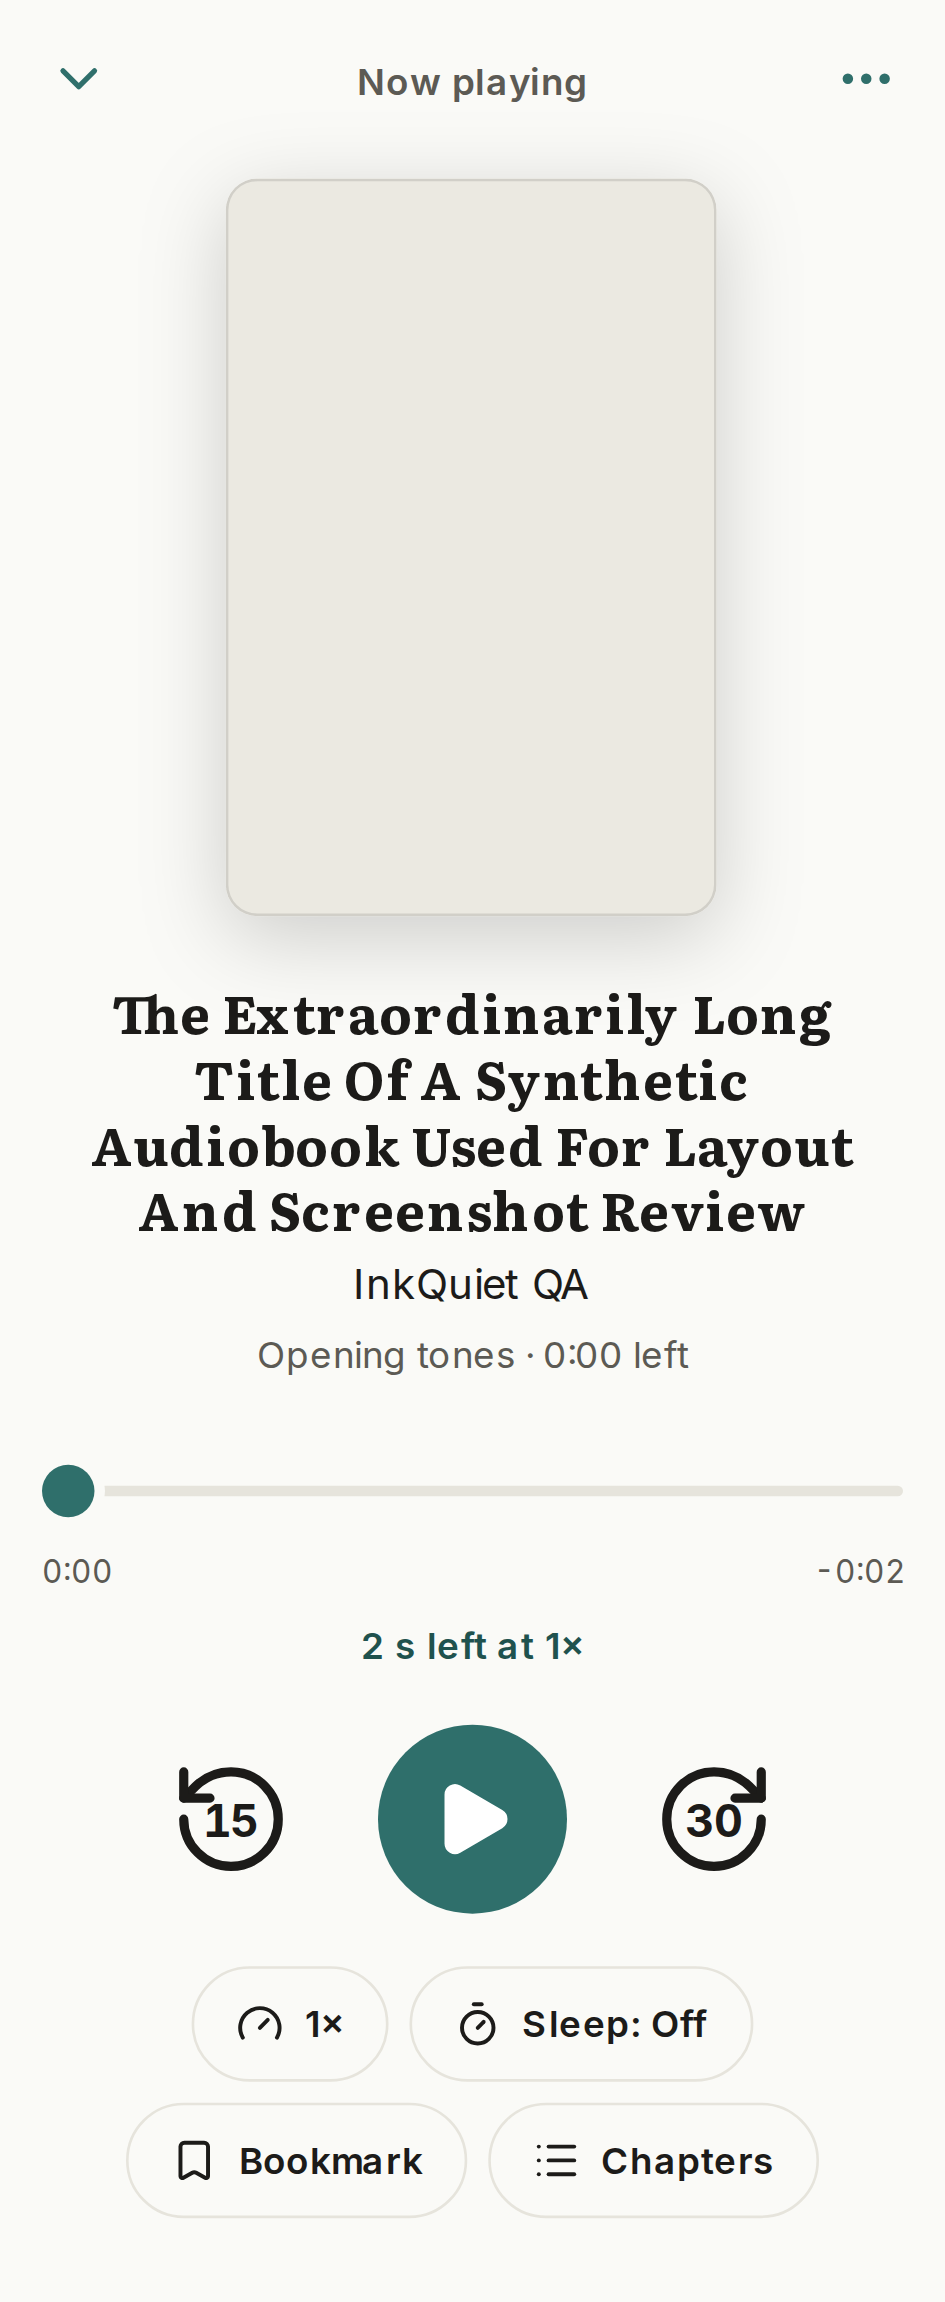
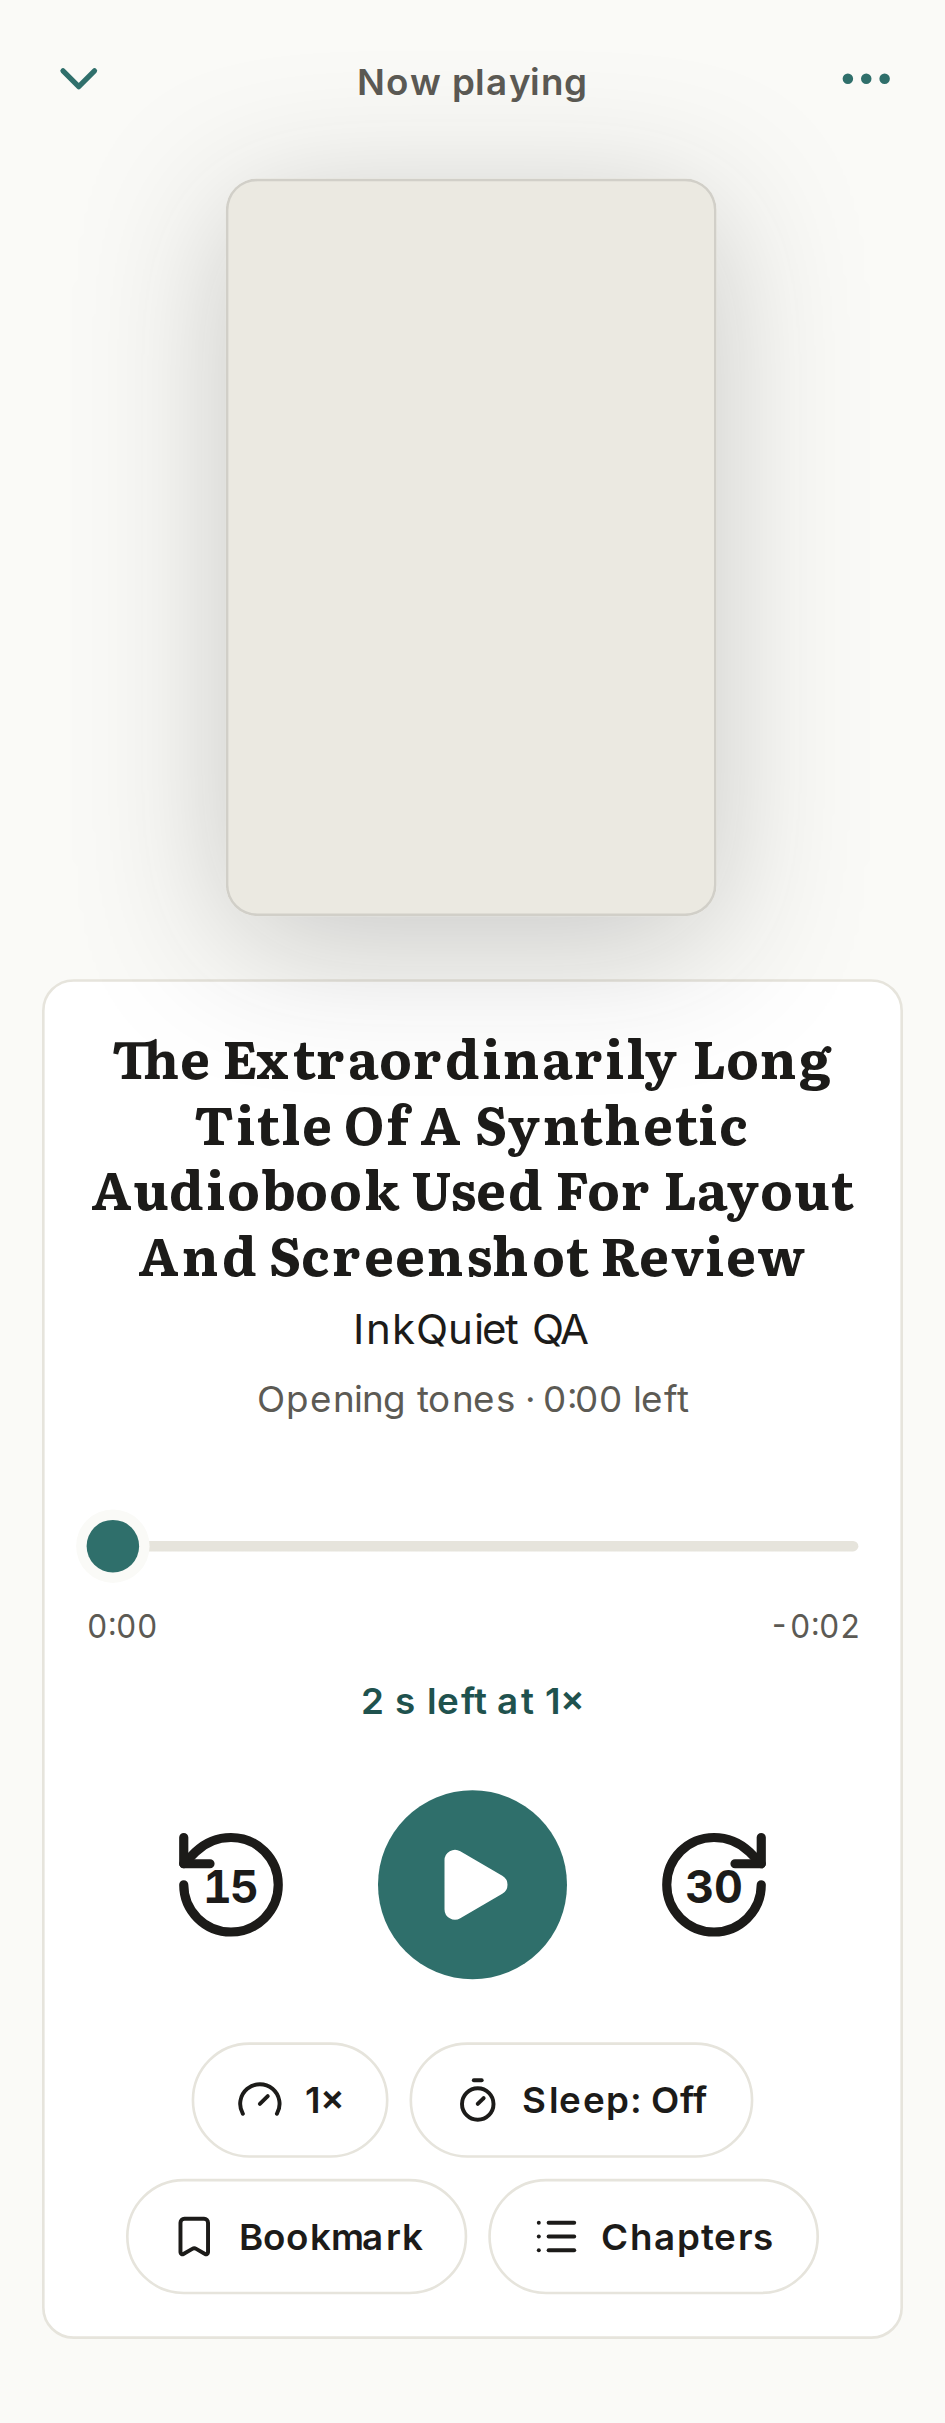
docs(release): refresh 360px light/dark screenshots and fix capture spec
Use ThemeName tokens, disambiguate Settings Voices heading, and open reader
from the sample book flow without relying on list markup.

diff --git a/tests/e2e/release-screens.spec.ts b/tests/e2e/release-screens.spec.ts
@@ -7,7 +7,7 @@ import { chooseTheme, launch, gotoTab, skipOnboarding } from './support/app';
 const OUT = join(process.cwd(), '..', 'docs', 'screens', 'release');
 const VIEW = { width: 360, height: 740 };
 
-async function setTheme(page: Page, theme: 'Light' | 'Dark'): Promise<void> {
+async function setTheme(page: Page, theme: 'light' | 'dark'): Promise<void> {
   await chooseTheme(page, theme);
 }
 
@@ -19,33 +19,34 @@ test.describe('release screenshots (360 px)', () => {
   });
 
   for (const theme of ['light', 'dark'] as const) {
-    const label = theme === 'light' ? 'Light' : 'Dark';
-
     test(`library and settings (${theme})`, async ({ page }) => {
       await page.setViewportSize(VIEW);
       await launch(page);
-      await setTheme(page, label);
+      await setTheme(page, theme);
       await gotoTab(page, 'Library');
       await page.screenshot({ path: join(OUT, `library-360-${theme}.png`), fullPage: true });
       await gotoTab(page, 'Settings');
       await page.locator('#pn-set-voices').scrollIntoViewIfNeeded();
-      await expect(page.getByRole('heading', { name: 'Voices' })).toBeVisible();
+      await expect(page.getByRole('heading', { name: 'Voices', exact: true })).toBeVisible();
       await page.screenshot({ path: join(OUT, `settings-360-${theme}.png`), fullPage: true });
     });
 
     test(`reader with narration (${theme})`, async ({ page }) => {
       await page.setViewportSize(VIEW);
       await launch(page);
-      await setTheme(page, label);
+      await setTheme(page, theme);
       await gotoTab(page, 'Library');
       const card = page.getByRole('region', { name: /try a sample book/i });
       if (await card.isVisible().catch(() => false)) {
         await card.getByRole('button', { name: /add the sample book/i }).click();
       }
-      const book = page.locator('main li, main [role=listitem]').first();
-      await expect(book).toBeVisible({ timeout: 15_000 });
-      await book.click();
-      await expect(page).toHaveURL(/\/read\//, { timeout: 15_000 });
+      const opened = await page.waitForURL(/\/read\//, { timeout: 15_000 }).then(() => true, () => false);
+      if (!opened) {
+        const book = page.getByRole('main').getByRole('button').filter({ hasText: /peter rabbit|sample/i }).first();
+        await expect(book).toBeVisible({ timeout: 15_000 });
+        await book.click();
+        await expect(page).toHaveURL(/\/read\//, { timeout: 15_000 });
+      }
       await expect(page.getByRole('region', { name: 'Read aloud controls' })).toBeVisible({ timeout: 20_000 });
       await page.screenshot({ path: join(OUT, `reader-narration-360-${theme}.png`), fullPage: true });
       await page.screenshot({ path: join(OUT, `reader-360-${theme}.png`), fullPage: true });
@@ -59,7 +60,9 @@ test.describe('release screenshots (360 px)', () => {
     await page.goto('./listen/pn-review-seed-audiobook?pn_seed_audio=1');
     await expect(page.getByRole('region', { name: 'Audio player' })).toBeVisible({ timeout: 30_000 });
     await page.screenshot({ path: join(OUT, 'player-360-light.png'), fullPage: true });
-    await setTheme(page, 'Dark');
+    await page.goto('./settings');
+    await page.getByRole('radio', { name: /^dark$/i }).locator('xpath=ancestor::label[1]').click();
+    await expect.poll(() => page.evaluate(() => document.documentElement.dataset.theme)).toBe('dark');
     await page.goto('./listen/pn-review-seed-audiobook?pn_seed_audio=1');
     await expect(page.getByRole('region', { name: 'Audio player' })).toBeVisible({ timeout: 30_000 });
     await page.screenshot({ path: join(OUT, 'player-360-dark.png'), fullPage: true });
